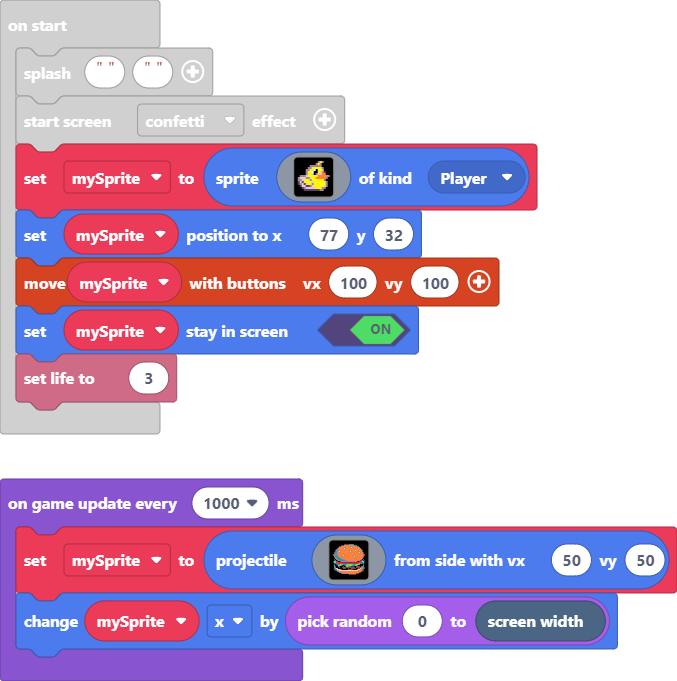
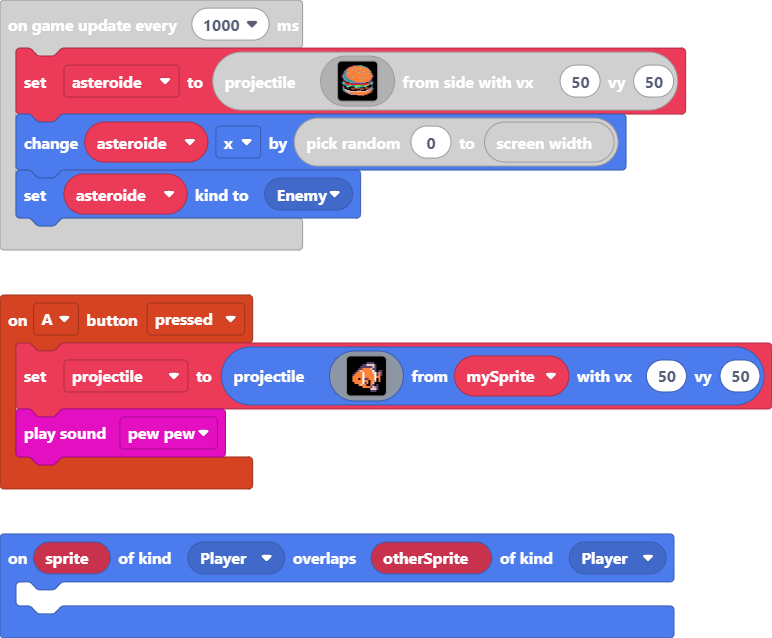
Update main.blocks, main.ts

diff --git a/main.ts b/main.ts
@@ -1,6 +1,33 @@
+controller.A.onEvent(ControllerButtonEvent.Pressed, function () {
+    projectile = sprites.createProjectileFromSprite(img`
+        . . . . . . . . . . . . . . . . 
+        . . . . . . . . c c c c . . . . 
+        . . . . . . c c d d d d c . . . 
+        . . . . . c c c c c c d c . . . 
+        . . . . c c 4 4 4 4 d c c . . . 
+        . . . c 4 d 4 4 4 4 4 1 c . c c 
+        . . c 4 4 4 1 4 4 4 4 d 1 c 4 c 
+        . c 4 4 4 4 1 4 4 4 4 4 1 c 4 c 
+        f 4 4 4 4 4 1 4 4 4 4 4 1 4 4 f 
+        f 4 4 4 f 4 1 c c 4 4 4 1 f 4 f 
+        f 4 4 4 4 4 1 4 4 f 4 4 d f 4 f 
+        . f 4 4 4 4 1 c 4 f 4 d f f f f 
+        . . f f 4 d 4 4 f f 4 c f c . . 
+        . . . . f f 4 4 4 4 c d b c . . 
+        . . . . . . f f f f d d d c . . 
+        . . . . . . . . . . c c c . . . 
+        `, mySprite, 50, 50)
+    music.pewPew.play()
+})
+sprites.onOverlap(SpriteKind.Player, SpriteKind.Player, function (sprite, otherSprite) {
+	
+})
+let asteroide: Sprite = null
+let projectile: Sprite = null
+let mySprite: Sprite = null
 game.splash("", "")
 effects.confetti.startScreenEffect()
-let mySprite = sprites.create(img`
+mySprite = sprites.create(img`
     . . . . . . . . . . b 5 b . . . 
     . . . . . . . . . b 5 b . . . . 
     . . . . . . b b b b b b . . . . 
@@ -23,7 +50,7 @@ controller.moveSprite(mySprite, 100, 100)
 mySprite.setStayInScreen(true)
 info.setLife(3)
 game.onUpdateInterval(1000, function () {
-    mySprite = sprites.createProjectileFromSide(img`
+    asteroide = sprites.createProjectileFromSide(img`
         ...........ccccc66666...........
         ........ccc4444444444666........
         ......cc444444444bb4444466......
@@ -57,5 +84,6 @@ game.onUpdateInterval(1000, function () {
         .........fffffffcccccee.........
         ................................
         `, 50, 50)
-    mySprite.x += randint(0, scene.screenWidth())
+    asteroide.x += randint(0, scene.screenWidth())
+    asteroide.setKind(SpriteKind.Enemy)
 })
